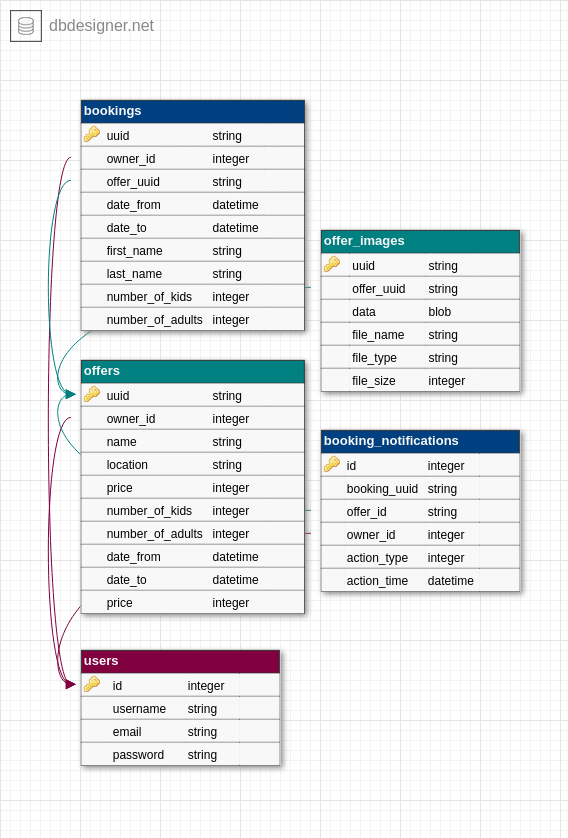
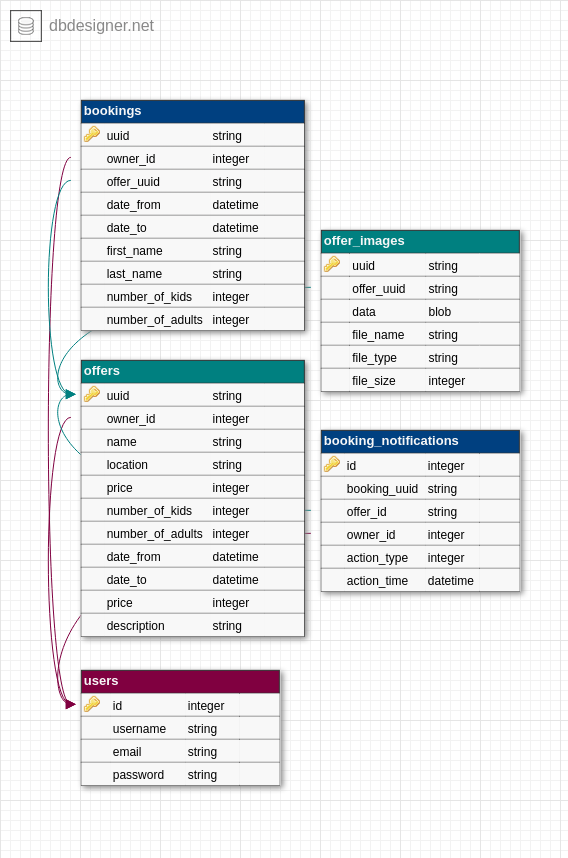
backend: changed Offers and Bookings

diff --git a/backend/src/main/java/pw/react/backend/controller/BookingController.java b/backend/src/main/java/pw/react/backend/controller/BookingController.java
@@ -10,6 +10,9 @@ import org.springframework.http.HttpStatus;
 import org.springframework.http.HttpHeaders;
 import org.springframework.http.ResponseEntity;
 import org.springframework.web.bind.annotation.*;
+
+import com.fasterxml.jackson.annotation.JsonFormat;
+
 import org.springframework.beans.factory.annotation.Autowired;
 
 import javax.validation.Valid;
@@ -21,6 +24,7 @@ import static java.util.stream.Collectors.joining;
 import static java.util.stream.Collectors.toList;
 
 import java.util.ArrayList;
+import java.util.Arrays;
 
 import pw.react.backend.models.Booking;
 import pw.react.backend.services.IBookingService;
@@ -126,7 +130,7 @@ public class BookingController {
             @ApiResponse(responseCode = "201", description = "Booking created"),
             @ApiResponse(responseCode = "400", description = "Admin doesn't exist")
     })
-    @PostMapping(path = "/{offerUuid}")
+    @PostMapping(path = {"/{offerUuid}"})
     public ResponseEntity<Collection<BookingDto>> createBookings(@RequestHeader HttpHeaders headers,
             @RequestBody List<BookingDto> bookings,
             @PathVariable String offerUuid) {
@@ -134,6 +138,22 @@ public class BookingController {
 
         Optional<Collection<BookingDto>> maybeSaved = bookingService.saveAll(bookings, offerUuid);
         return maybeSaved.isPresent() ? ResponseEntity.status(HttpStatus.CREATED).body(maybeSaved.get())
+                : ResponseEntity.status(HttpStatus.BAD_REQUEST).body(null);
+    }
+
+    @Operation(summary = "Create new booking")
+    @ApiResponses(value = {
+            @ApiResponse(responseCode = "201", description = "Booking created"),
+            @ApiResponse(responseCode = "400", description = "Admin doesn't exist")
+    })
+    @PostMapping(path = {""})
+    public ResponseEntity<BookingDto> createBooking(@RequestHeader HttpHeaders headers,
+            @RequestBody BookingDto booking) {
+        logHeaders(headers);
+
+        String offerUuid = booking.offer_uuid();
+        Optional<Collection<BookingDto>> maybeSaved = bookingService.saveAll(Arrays.asList(booking), offerUuid);
+        return maybeSaved.isPresent() ? ResponseEntity.status(HttpStatus.CREATED).body(maybeSaved.get().iterator().next())
                 : ResponseEntity.status(HttpStatus.BAD_REQUEST).body(null);
     }
 

diff --git a/backend/src/main/java/pw/react/backend/controller/OfferController.java b/backend/src/main/java/pw/react/backend/controller/OfferController.java
@@ -10,10 +10,14 @@ import org.springframework.http.HttpStatus;
 import org.springframework.http.HttpHeaders;
 import org.springframework.http.ResponseEntity;
 import org.springframework.web.bind.annotation.*;
+import org.springframework.web.jsf.FacesContextUtils;
+
+import com.fasterxml.jackson.annotation.JsonFormat;
 
 import org.springframework.beans.factory.annotation.Autowired;
 
 import java.util.ArrayList;
+import java.util.Arrays;
 import java.util.Collection;
 import java.util.Collections;
 import java.util.List;
@@ -199,17 +203,33 @@ public class OfferController {
         return ResponseEntity.ok(offerDtos);
     }
 
-    @Operation(summary = "Create new Offer")
+    @Operation(summary = "Create new Offers")
     @ApiResponses(value = {
-            @ApiResponse(responseCode = "201", description = "Offer created")
+            @ApiResponse(responseCode = "201", description = "Offers created")
     })
-    @PostMapping(path = "/{ownerId}")
+    @PostMapping(path = {"/{ownerId}"})
     public ResponseEntity<Collection<OfferDto>> createOffers(@RequestHeader HttpHeaders headers,
             @RequestBody List<OfferDto> offers,
             @PathVariable Long ownerId) {
         logHeaders(headers);
+
         Optional<Collection<OfferDto>> maybeSaved = offerService.saveAll(offers, ownerId);
         return maybeSaved.isPresent() ? ResponseEntity.status(HttpStatus.CREATED).body(maybeSaved.get())
+                : ResponseEntity.status(HttpStatus.BAD_REQUEST).body(null);
+    }
+
+    @Operation(summary = "Create new Offer")
+    @ApiResponses(value = {
+            @ApiResponse(responseCode = "201", description = "Offer created")
+    })
+    @PostMapping(path = "")
+    public ResponseEntity<OfferDto> createOffer(@RequestHeader HttpHeaders headers,
+            @RequestBody OfferDto offer) {
+        logHeaders(headers);
+
+        Long ownerId = offer.owner_id();
+        Optional<Collection<OfferDto>> maybeSaved = offerService.saveAll(Arrays.asList(offer), ownerId);
+        return maybeSaved.isPresent() ? ResponseEntity.status(HttpStatus.CREATED).body(maybeSaved.get().iterator().next())
                 : ResponseEntity.status(HttpStatus.BAD_REQUEST).body(null);
     }
 

diff --git a/backend/src/main/java/pw/react/backend/web/OfferDto.java b/backend/src/main/java/pw/react/backend/web/OfferDto.java
@@ -7,16 +7,17 @@ public record OfferDto(String uuid,
         long owner_id,
         String name,
         Long price,
+        String description,
         String location,
         Long dateFrom,
         Long dateTo,
         Long numberOfKids,
         Long numberOfAdults) {
 
-    public static final OfferDto EMPTY = new OfferDto("", 0, "", 0L, "", 0L, 0L, 0L, 0L);
+    public static final OfferDto EMPTY = new OfferDto("", 0, "", 0L, "", "", 0L, 0L, 0L, 0L);
 
     public static OfferDto valueFrom(Offer offer) {
-        return new OfferDto(offer.getUuid(), offer.getOwner().getId(), offer.getName(), offer.getPrice(), offer.getLocation(), offer.getDateFrom(), offer.getDateTo(), offer.getNumberOfKids(), offer.getNumberOfAdults());
+        return new OfferDto(offer.getUuid(), offer.getOwner().getId(), offer.getName(), offer.getPrice(), offer.getDescription(), offer.getLocation(), offer.getDateFrom(), offer.getDateTo(), offer.getNumberOfKids(), offer.getNumberOfAdults());
     }
 
     public static Offer convertToOffer(OfferDto offerDto) { // sus
@@ -25,6 +26,7 @@ public record OfferDto(String uuid,
         offer.setUuid(offerDto.uuid());
         offer.setName(offerDto.name());
         offer.setPrice(offerDto.price());
+        offer.setDescription(offerDto.description());
         offer.setLocation(offerDto.location());
         offer.setDateFrom(offerDto.dateFrom());
         offer.setDateTo(offerDto.dateTo());
@@ -40,6 +42,7 @@ public record OfferDto(String uuid,
         offer.setUuid(offerDto.uuid());
         offer.setName(offerDto.name());
         offer.setPrice(offerDto.price());
+        offer.setDescription(offerDto.description());
         offer.setOwner(admin);
         offer.setLocation(offerDto.location());
         offer.setDateFrom(offerDto.dateFrom());

diff --git a/backend/src/main/java/pw/react/backend/models/Offer.java b/backend/src/main/java/pw/react/backend/models/Offer.java
@@ -16,6 +16,16 @@ public class Offer implements Serializable {
     private String uuid;
 
     private String name;
+    private String description;
+
+    public String getDescription() {
+        return description;
+    }
+
+    public void setDescription(String description) {
+        this.description = description;
+    }
+
     public String getName() {
         return name;
     }
